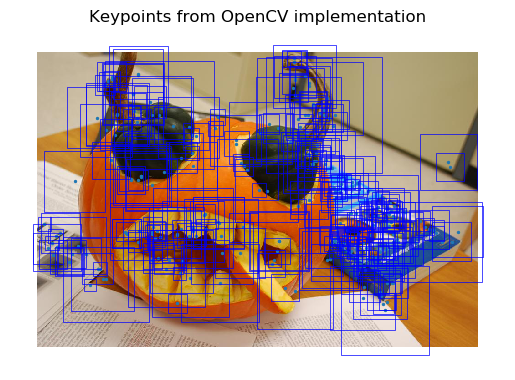
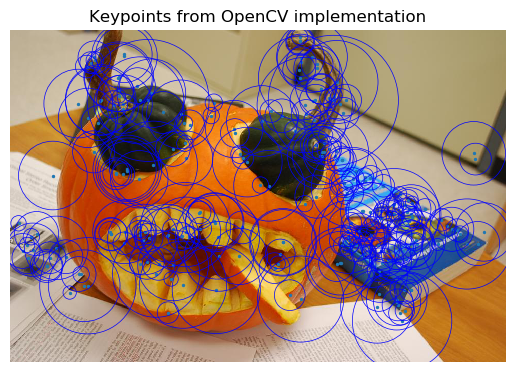
circles and rounding

diff --git a/src/descriptor.cpp b/src/descriptor.cpp
@@ -7,20 +7,20 @@
 #include <math.h>
 #include <stdlib.h>
 
- #define MAX(a,b) (((a)>(b))?(a):(b))
+#define MAX(a,b) (((a)>(b))?(a):(b))
 
 
 void get_descriptor(struct integral_image* iimage, struct interest_point* ipoint, float* GW) {
 
     float scale = ipoint->scale;
     // TODO: (Sebastian) Is this correct with  "- 0.5"?
-    int ipoint_x = (int) (ipoint->x - 0.5);
-    int ipoint_y = (int) (ipoint->y - 0.5);
+    int ipoint_x = (int) (ipoint->x + 0.5);
+    int ipoint_y = (int) (ipoint->y + 0.5);
 
     int step = MAX((int)(scale/2 + 0.5),1); // rounding is done this way in the original implementaion
 
-    int col_offset = ipoint_x-step*10; //10 = PATCH_SIZE/2;
-    int row_offset = ipoint_y-step*10;
+    int col_offset = ipoint_x-step*11; //10 - 1 = PATCH_SIZE/2 + (shift to obtain upper left);
+    int row_offset = ipoint_y-step*11;
 
     // build descriptor
     float* descriptor = ipoint->descriptor;

diff --git a/scripts/postprocessing.py b/scripts/postprocessing.py
@@ -68,11 +68,11 @@ def draw_kp(img, kps, show=True, save_fp=None, n_max=None, title=None):
         x, y = kp.pt
         xs.append(x)
         ys.append(y)
-        # circle = plt.Circle(kp.pt, kp.size, color='b', fill=False, lw=0.5)
-        # ax.add_artist(circle)
+        circle = plt.Circle(kp.pt, kp.size, color='b', fill=False, lw=0.5)
+        ax.add_artist(circle)
 
-        rect = patches.Rectangle((kp.pt[0]-kp.size, kp.pt[1]-kp.size), 2*kp.size, 2*kp.size, color='b', fill=False, lw=0.5)
-        ax.add_patch(rect)
+        # rect = patches.Rectangle((kp.pt[0]-kp.size, kp.pt[1]-kp.size), 2*kp.size, 2*kp.size, color='b', fill=False, lw=0.5)
+        # ax.add_patch(rect)
 
     ax.imshow(img1[:,:,[2,1,0]])
     plt.scatter(xs, ys,s=2)
